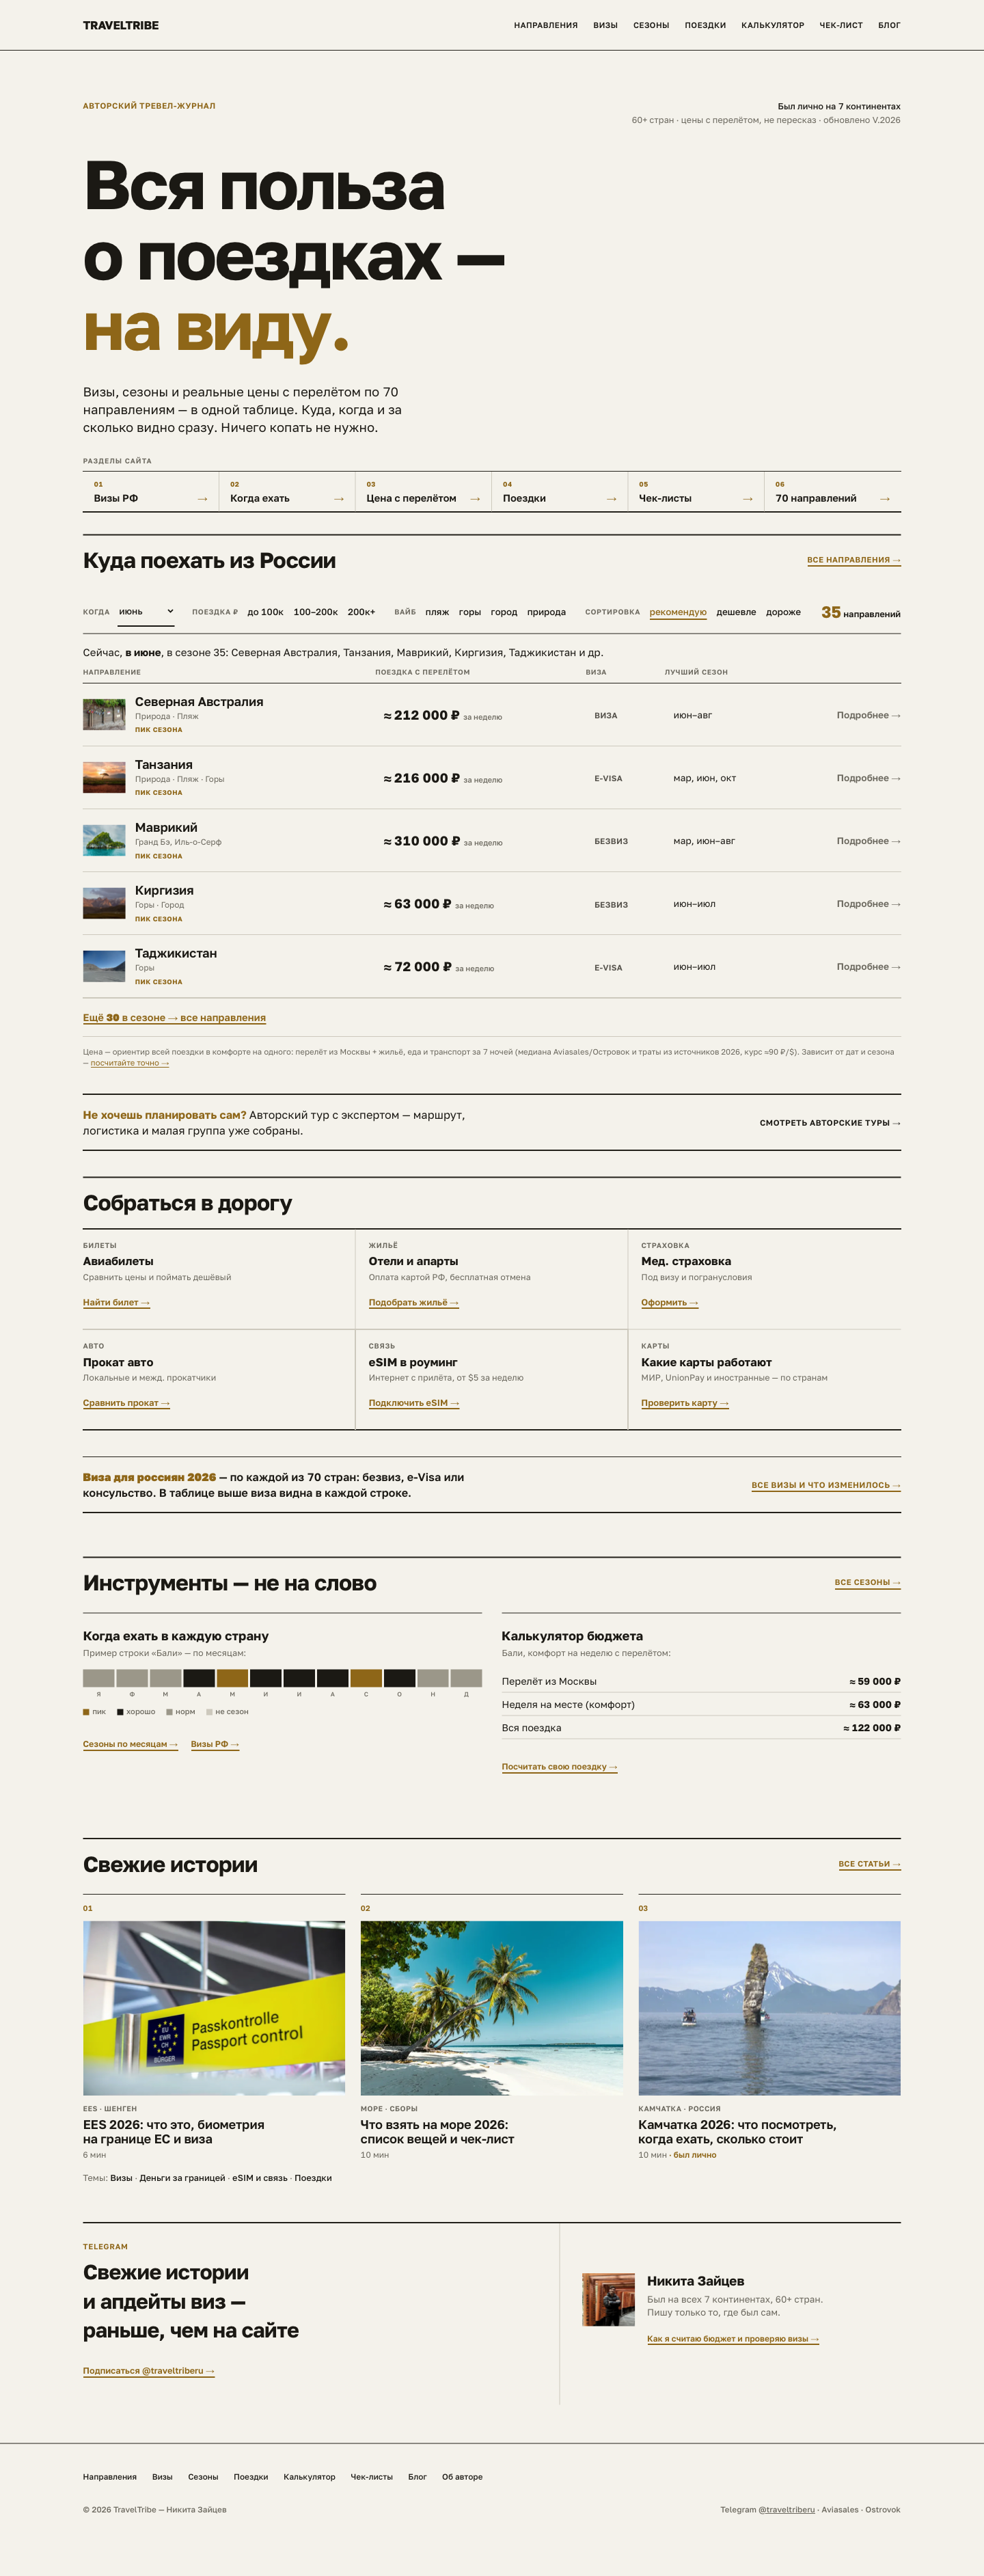
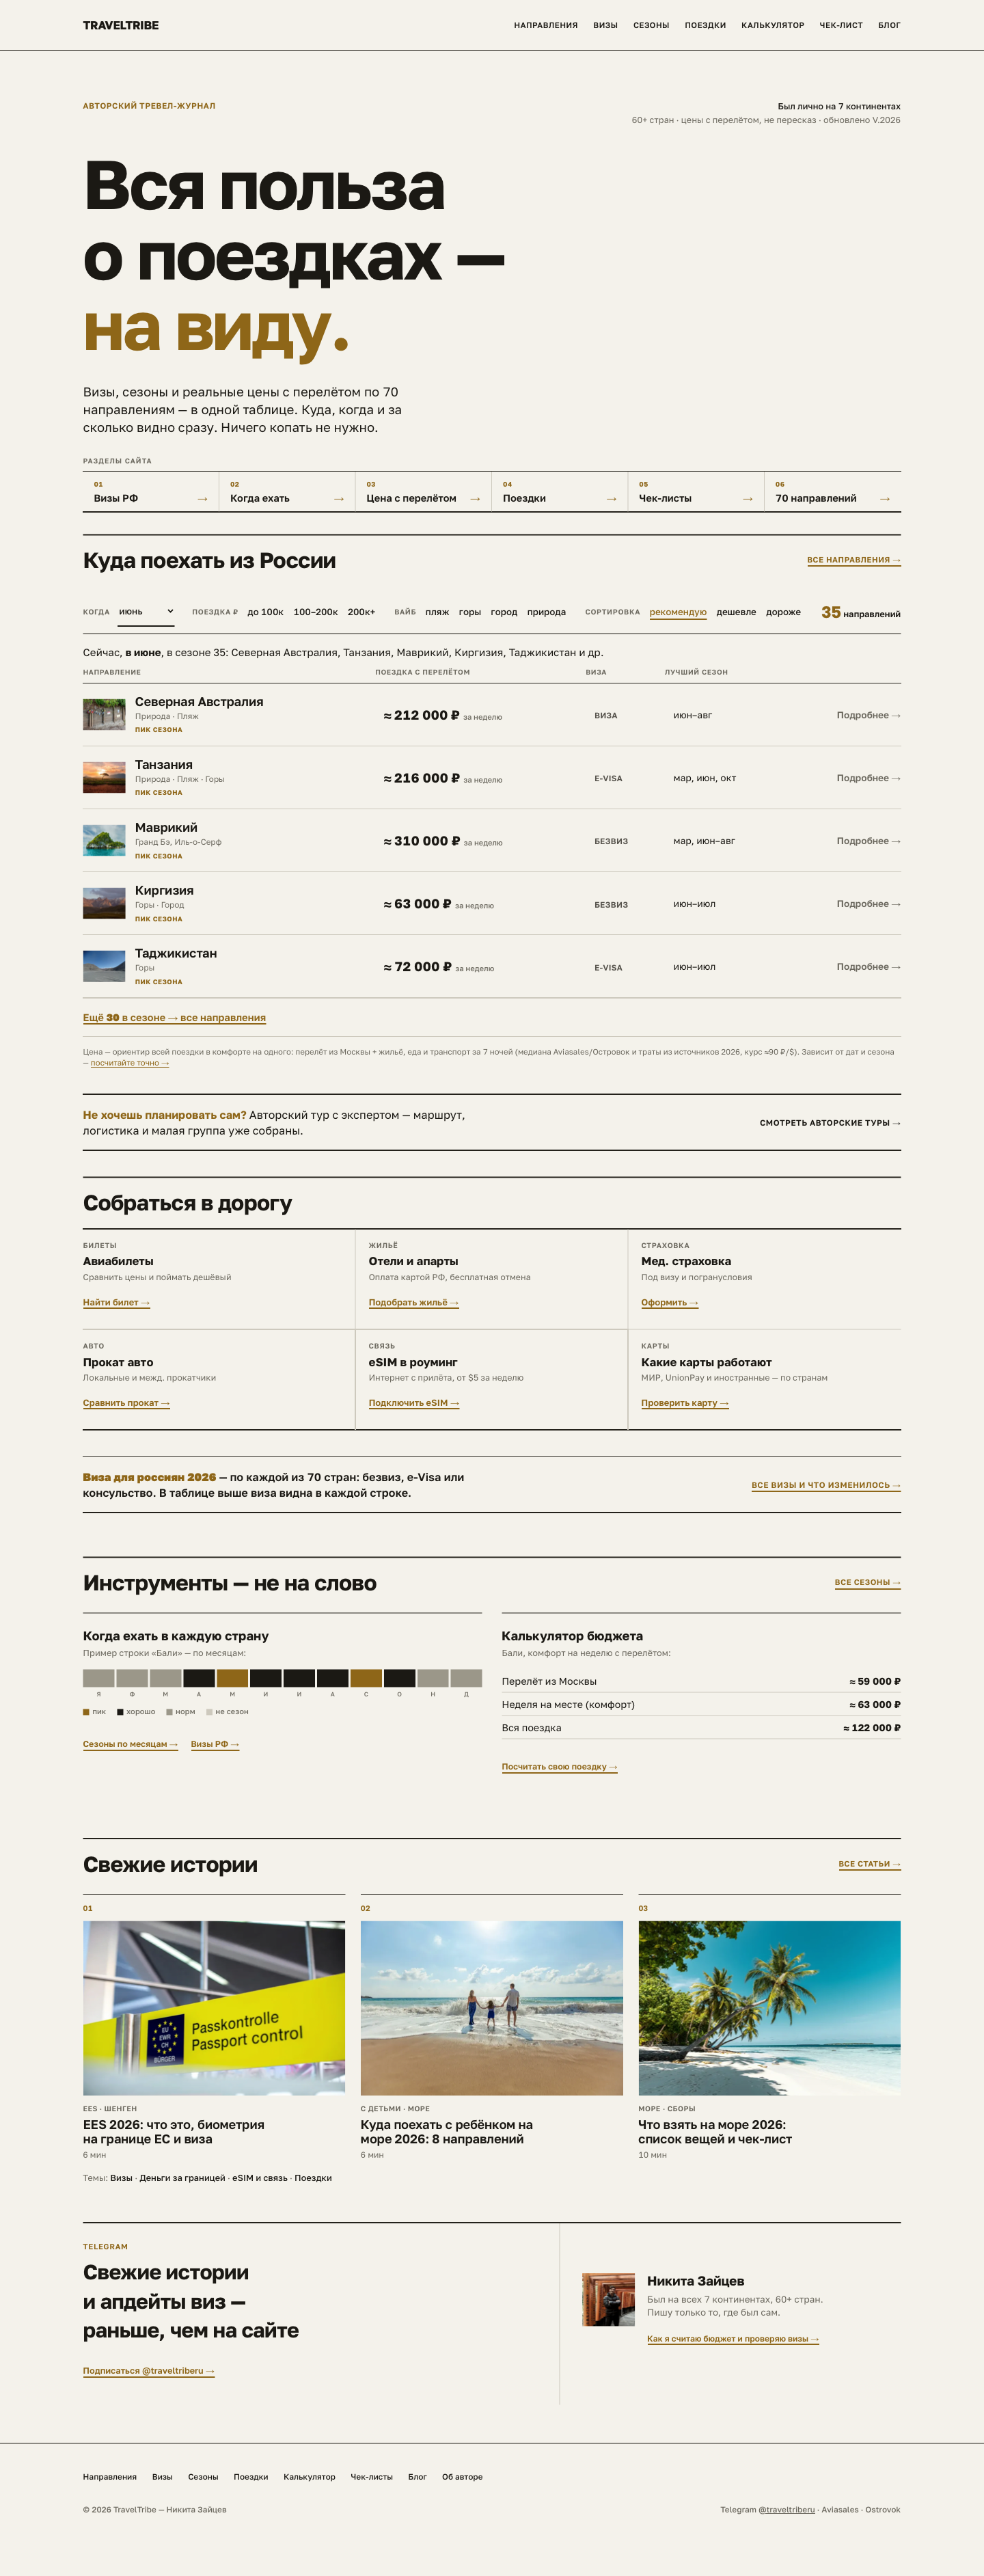
feat(discovery): пилот-гайд «Куда поехать с ребёнком на море 2026»
Ставка на пересечение: валидированный спрос (с детьми 9.5k × море 16k, длинный хвост
менее медиа-зажат) + наш уникальный актив (данные 70 стран + проверенный море-пиллар +
интерактив-чеклист) + новый монетизируемый сегмент (семьи) + воронка в деньги-страницы.

- Answer-first листикл: 8 направлений на РЕАЛЬНЫХ данных (виза/перелёт/сезон/бюджет из
  src/data, 0 выдумки) + сравнит. таблица + возрастной разбор (грудничок→короткий безвиз).
- Встроен PackingChecklist (preset sea) — box-устойчивый интерактив на странице.
- Воронка в 11 наших страниц (гайды стран + packing + море-пиллар + /seasons/ финдер) +
  CTA страховка/перелёт. FAQPage schema, byline, webp-кавер (Unsplash).
- YMYL (визы/Абхазия внутр.паспорт) — по нашим данным + дисклеймер.

Дискавери-ПИЛОТ (1 гайд, не раскатка) — проверка гипотезы новой аудитории; масштаб только
если замер через 2-4 нед покажет рост/Нейро-цитату. Честный потолок: ИКС=10, дискавери-head
медиа-зажат — целимся в хвост + GEO + воронку.

Гейт: build зелёный, 244 visual passed (0 flaky), content-invariants зелёный,
blog-kuda-more-deti в PAGES, эталоны home/blog-index (35 статей). Рендер сверен глазами.

Changed region(s): [[0.3438, 0.745, 0.9375, 0.8382]]

diff --git a/tests/visual.spec.ts b/tests/visual.spec.ts
@@ -20,7 +20,8 @@ const PAGES = [
   { slug: '/blog/kamchatka-guide-2026/',    name: 'blog-kamchatka' }, // РФ-пилот: TOC + FlightRoutes + богатые сезоны
   { slug: '/blog/chto-vzyat-na-more-2026/', name: 'blog-more-checklist' }, // пиллар + интерактив-чеклист (sea preset, locked)
   { slug: '/packing/egypt/june/',           name: 'packing-egypt-june' },  // [month] + встроенный чеклист (sea)
-  { slug: '/blog/ees-2026/',                name: 'blog-ees' },            // YMYL explainer + тул-таблица (SEO-аудит)
+  { slug: '/blog/ees-2026/',                name: 'blog-ees' },            // YMYL explainer + тул-таблица (SEO-аудit)
+  { slug: '/blog/kuda-na-more-s-rebenkom-2026/', name: 'blog-kuda-more-deti' }, // дискавери-пилот: листикл + встроенный чеклист
   { slug: '/packing/',                      name: 'packing-landing' },        // /packing/ landing: 70 country cards
   { slug: '/packing/japan/',                name: 'packing-country-japan' },  // консолидированный хаб: упаковка по сезонам
 ];